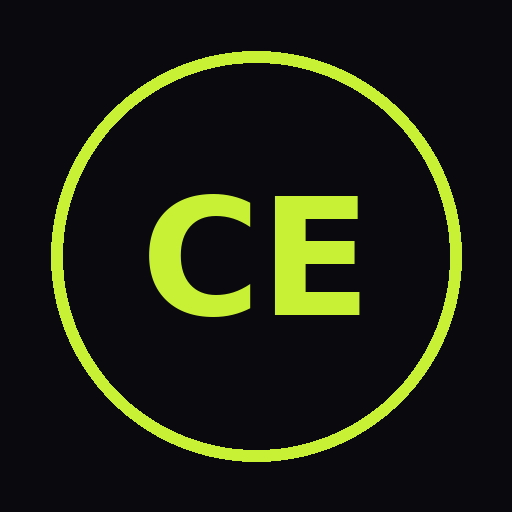
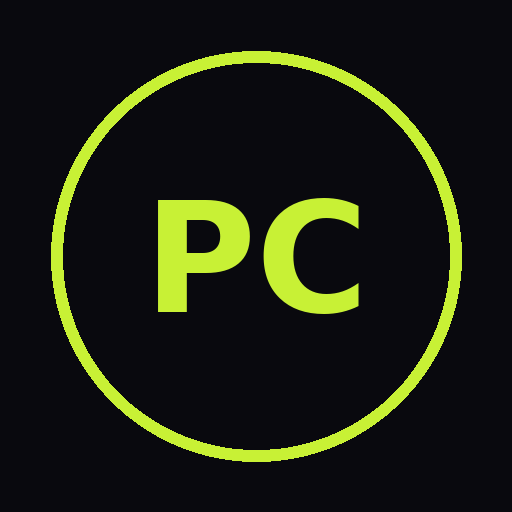
Rebrand: CoachEndurance -> PersonalCoach, tagline 'Treino baseado em ciencia'

Changed region(s): [[0.2812, 0.375, 0.7188, 0.625]]

diff --git a/index.html b/index.html
@@ -3,7 +3,7 @@
 <head>
 <meta charset="UTF-8"/>
 <meta name="viewport" content="width=device-width,initial-scale=1,maximum-scale=1,viewport-fit=cover"/>
-<title>CoachEndurance — Fortalecimento para Atletas de Endurance</title>
+<title>PersonalCoach — Treino Baseado em Ciência</title>
 
 <!-- PWA: instalação real no celular (ícone + tela cheia, sem barra do navegador) -->
 <link rel="manifest" href="manifest.json"/>
@@ -11,7 +11,7 @@
 <meta name="mobile-web-app-capable" content="yes"/>
 <meta name="apple-mobile-web-app-capable" content="yes"/>
 <meta name="apple-mobile-web-app-status-bar-style" content="black-translucent"/>
-<meta name="apple-mobile-web-app-title" content="CoachEndurance"/>
+<meta name="apple-mobile-web-app-title" content="PersonalCoach"/>
 <link rel="apple-touch-icon" href="icons/icon-192.png"/>
 <link rel="icon" href="icons/icon-192.png"/>
 
@@ -249,7 +249,7 @@ textarea{resize:vertical;min-height:70px}
 
 <!-- GATE DE ACESSO: licença (CPF+código) → cadastro → confirmação de e-mail → login -->
 <div id="gate-overlay" style="position:fixed;inset:0;background:var(--bg);z-index:500;display:none;flex-direction:column;overflow-y:auto">
-  <div style="padding:32px 22px 18px"><div class="logo" style="font-size:20px">⚡ CoachEndurance</div></div>
+  <div style="padding:32px 22px 18px"><div class="logo" style="font-size:20px">⚡ PersonalCoach</div></div>
 
   <div class="gate-step" id="gate-loading" style="display:none;flex:1;align-items:center;justify-content:center;flex-direction:column;gap:10px">
     <div style="font-size:13px;color:var(--muted)">Carregando…</div>
@@ -295,8 +295,8 @@ textarea{resize:vertical;min-height:70px}
 <!-- HEADER -->
 <header class="hdr">
   <div>
-    <div class="logo">⚡ CoachEndurance</div>
-    <div class="hdr-sub" id="hdr-sub">Fortalecimento para Endurance</div>
+    <div class="logo">⚡ PersonalCoach</div>
+    <div class="hdr-sub" id="hdr-sub">Treino baseado em ciência</div>
   </div>
   <div class="hdr-right" id="hdr-right"></div>
 </header>
@@ -989,7 +989,7 @@ function updateHdrSub() {
   if (!el) return;
   el.textContent = state.assessed && state.profile['av-modalidade']
     ? `${modLabel(state.profile['av-modalidade'])} · Ciclo ${state.cycleNum}`
-    : 'Fortalecimento para Endurance';
+    : 'Treino baseado em ciência';
 }
 
 // ══════════════════════════════════════════════════════
@@ -2401,7 +2401,7 @@ function resetData() { if (!confirm('Apagar todos os dados e recomeçar?')) retu
 // Autocorreção de versão: se o app mudou desde a última visita, força a
 // limpeza do cache antigo e recarrega — evita ficar travado numa versão
 // velha por causa do service worker.
-const APP_VERSION = '2026-08-21-1';
+const APP_VERSION = '2026-08-21-2';
 if (localStorage.getItem('app_version') !== APP_VERSION) {
   localStorage.setItem('app_version', APP_VERSION);
   Promise.all([

diff --git a/sw.js b/sw.js
@@ -1,4 +1,4 @@
-// CoachEndurance — Service Worker
+// PersonalCoach — Service Worker
 // v2: HTML/JS sempre busca a versão mais nova da rede primeiro (network-first) —
 // só usa o cache salvo se estiver sem internet. Isso evita o app "travar" numa
 // versão antiga depois de uma atualização. Ícones/manifest usam cache-first

diff --git a/README.md b/README.md
@@ -1,4 +1,4 @@
-# CoachEndurance
+# PersonalCoach
 
 App de fortalecimento para atletas de endurance (corrida, ciclismo, natação, híbridos).
 Ver `DEPLOY_GUIDE.md` para o passo a passo completo de deploy e lançamento.
